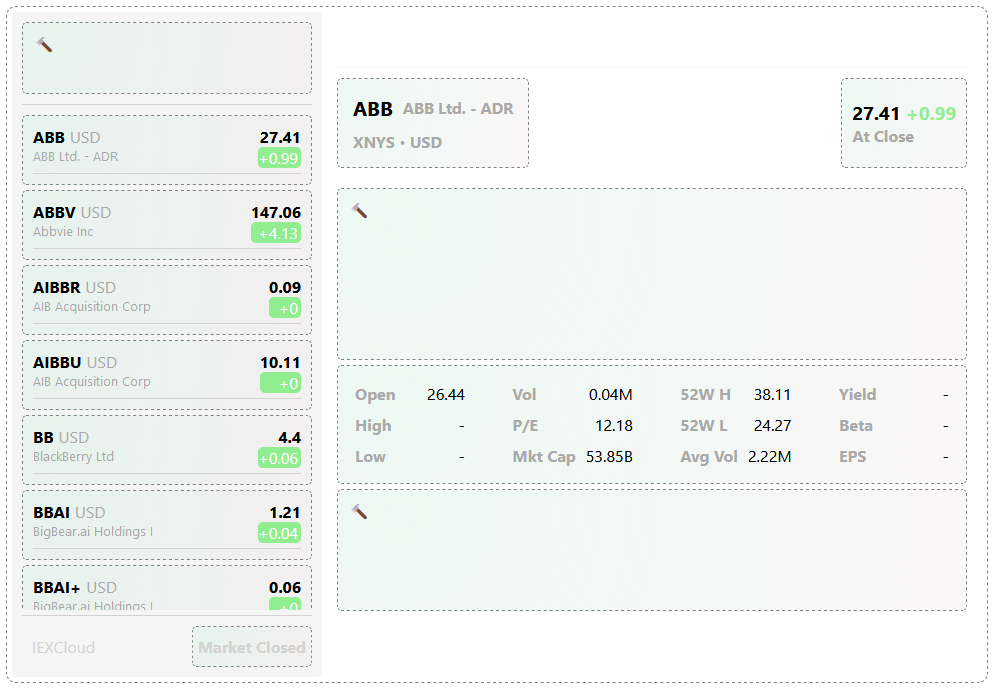
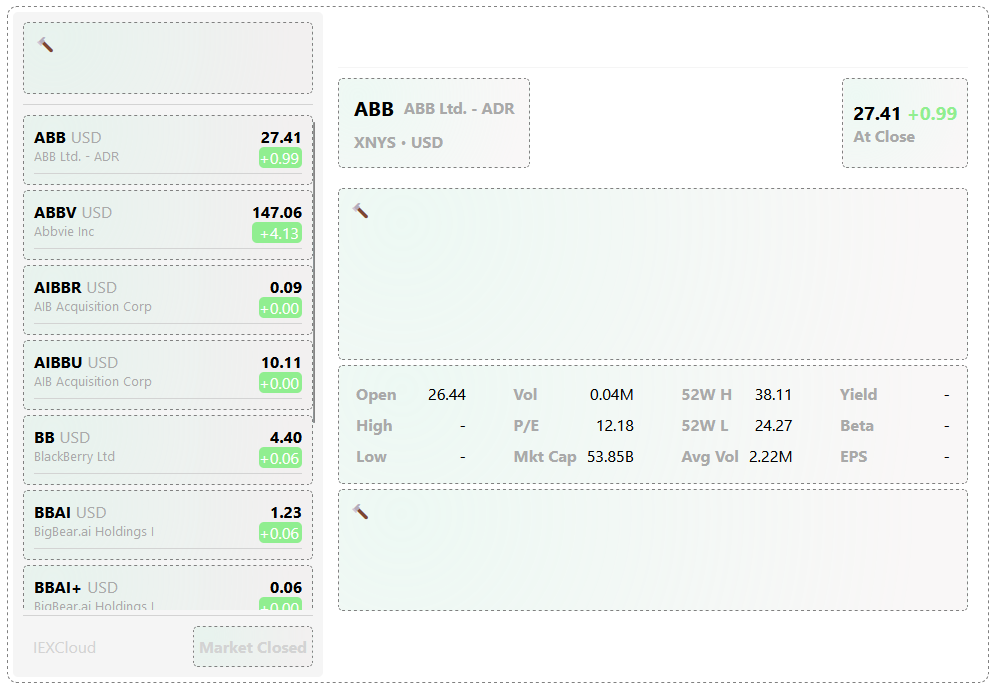
styling updates

diff --git a/src/Components/StockPrice/stockprice.js b/src/Components/StockPrice/stockprice.js
@@ -1,13 +1,14 @@
 import './stockprice.css';
+import { FormatPrice } from '../../Utils/stockdataformatter.js';
 
 function StockPrice(props)
 {
-    let priceDelta = <h3 className="stock-price-delta stock-price-delta-negative">{props.activeStockPreview?.currentDelta}</h3>;
+    let priceDelta = <h3 className="stock-price-delta stock-price-delta-negative">{FormatPrice(props.activeStockPreview?.currentDelta)}</h3>;
     let priceSource = <div className="stock-price-source">At Close</div>
 
     if (props.activeStockPreview?.currentDelta >= 0)
     {
-        priceDelta = <h3 className="stock-price-delta stock-price-delta-positive">+{props.activeStockPreview?.currentDelta}</h3>;
+        priceDelta = <h3 className="stock-price-delta stock-price-delta-positive">+{FormatPrice(props.activeStockPreview?.currentDelta)}</h3>;
     }
 
     if (props.marketStatus?.status == "Open")
@@ -18,7 +19,7 @@ function StockPrice(props)
     return(
         <div className="component stock-price">
             <div className="stock-price-top">
-                <h3 className="stock-price-current">{props.activeStockPreview?.currentPrice}</h3>
+                <h3 className="stock-price-current">{FormatPrice(props.activeStockPreview?.currentPrice)}</h3>
                 {priceDelta}
             </div>
             {priceSource}

diff --git a/src/Components/SearchResult/searchresult.js b/src/Components/SearchResult/searchresult.js
@@ -1,4 +1,5 @@
 import './searchresult.css';
+import { FormatPrice } from '../../Utils/stockdataformatter.js'
 
 function SearchResult(props)
 {
@@ -27,8 +28,8 @@ function SearchResult(props)
                     <div className="search-result-name">{props.activeStockPreview?.name}</div>
                 </div>
                 <div>
-                    <div className="search-result-price">{props.activeStockPreview?.currentPrice}</div>
-                    <div className={deltaClassName}>{deltaSymbol}{props.activeStockPreview?.currentDelta}</div>
+                    <div className="search-result-price">{FormatPrice(props.activeStockPreview?.currentPrice)}</div>
+                    <div className={deltaClassName}>{deltaSymbol}{FormatPrice(props.activeStockPreview?.currentDelta)}</div>
                 </div>
             </li>
         </div>

diff --git a/src/Utils/stockdataformatter.js b/src/Utils/stockdataformatter.js
@@ -1,4 +1,9 @@
 
+export function FormatPrice(rawData)
+{
+    return rawData != null ? rawData.toFixed(2) : 0.00;
+}
+
 export function FormatMarketCap(rawData)
 {
     return (rawData / 1000000000).toFixed(2) + "B";
